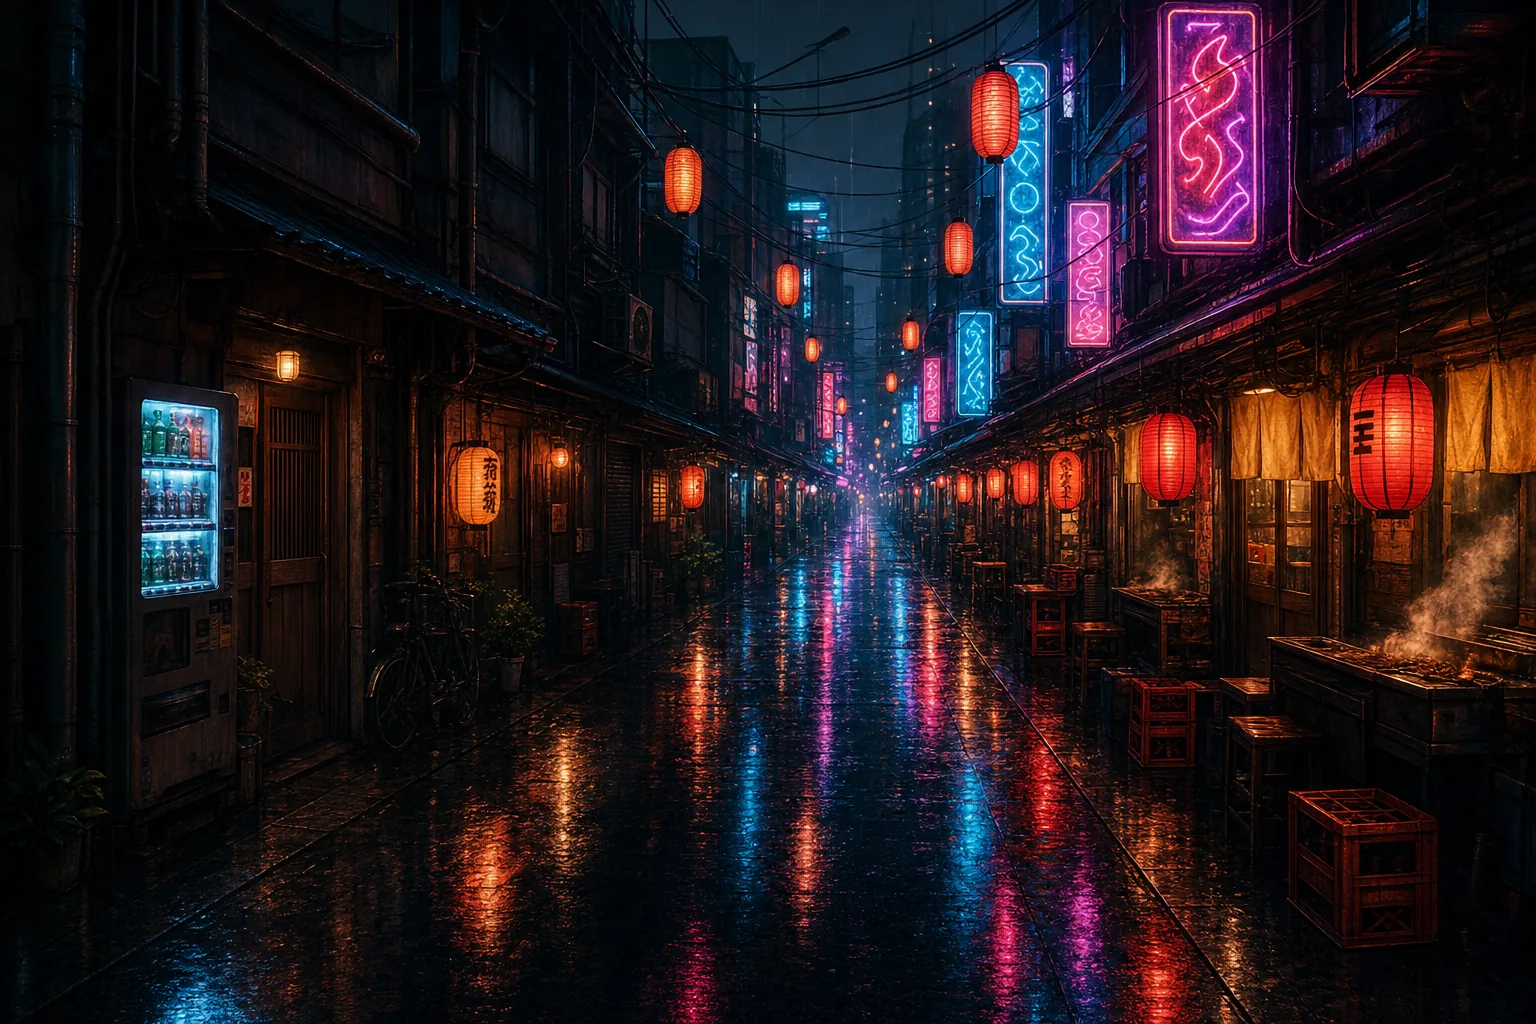
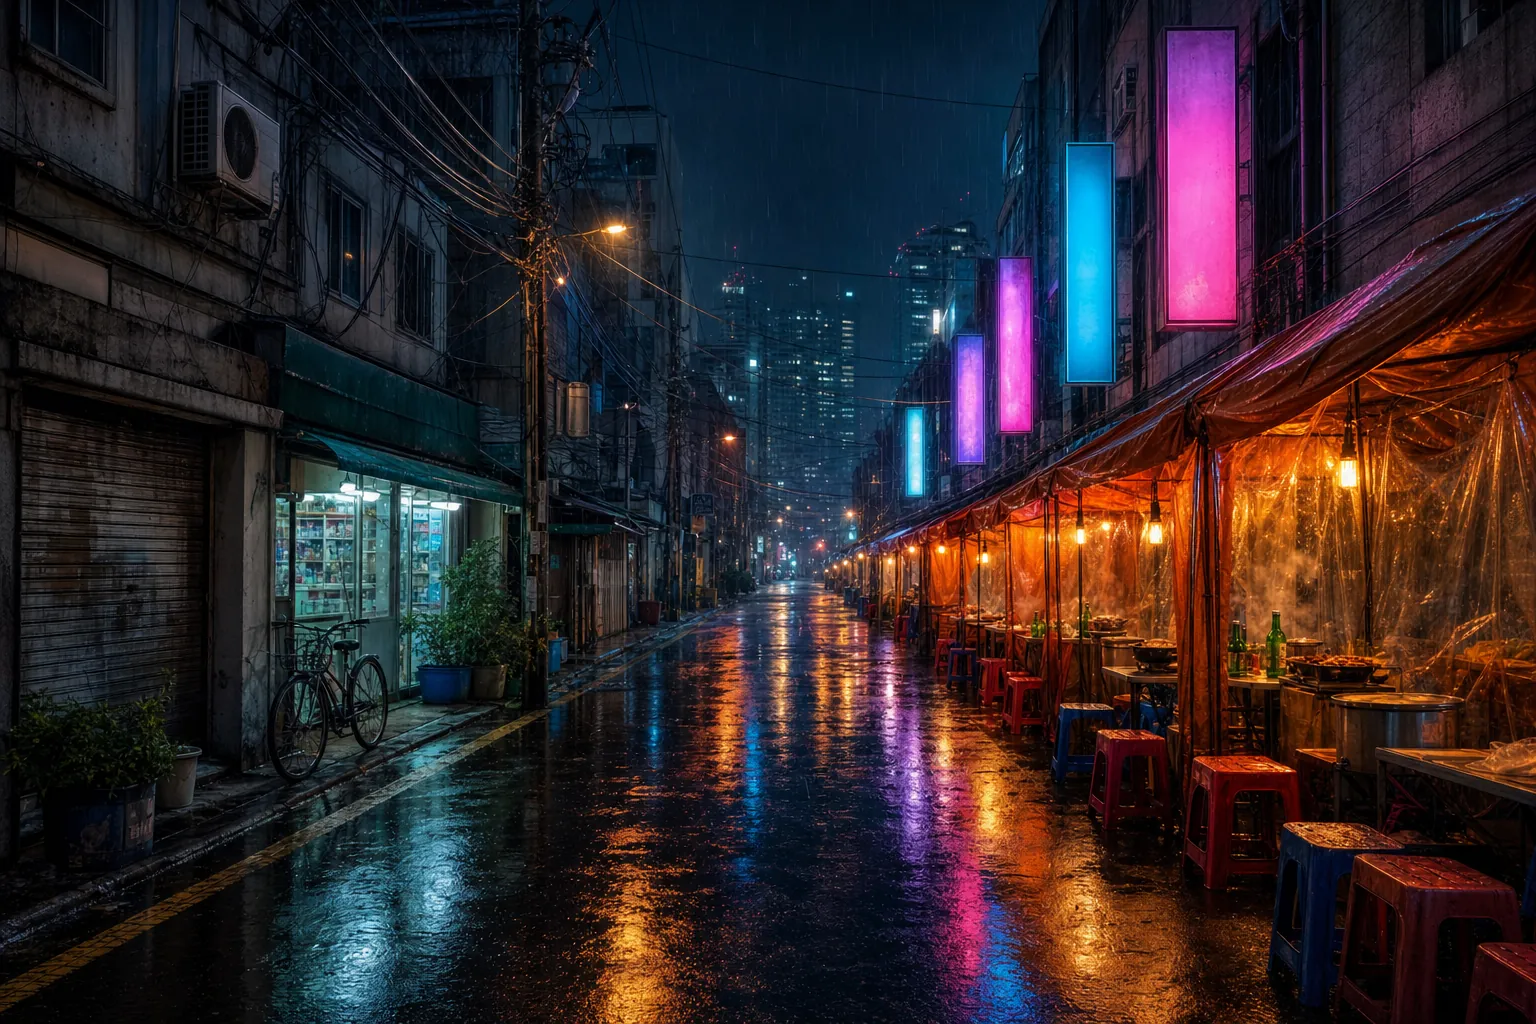
feat: Night Rain becomes a Seoul pojangmacha alley with Hangul neon signs

diff --git a/src/scenes/night-rain.ts b/src/scenes/night-rain.ts
@@ -1,4 +1,4 @@
-// Night Rain: a drinking alley in a neon city, in the rain. The alley is a
+// Night Rain: a Seoul alley of pojangmacha tents under neon, in the rain. The alley is a
 // painted plate drawn once per size; a passer-by under a clear umbrella walks
 // away down it from a four-frame strip, lit by the lanterns he passes. The
 // shader adds the rain, ripples, splashes, the shimmer of the wet street, his
@@ -12,39 +12,40 @@ const PERIOD = 60;
 
 // Each alley plate in its own pixels: size, the street's vanishing point and depth scale (fractions), where on screen the vanishing point goes, where its floor meets the walls at the bottom edge, a sign that buzzes, a vent that steams, how far right of the street's middle he walks (m), and plate px rects put out (a sign moved off them).
 const ALLEYS = {
-  wide: { w: 1536, h: 1024, vp: [0.563, 0.484], k: 0.2, aim: 0.67, floor: [-0.01, 0.815], sign: [0.755, 0.09, 0.822, 0.334], vent: [0.762, 0.57], side: 0.9, dark: [1146, 0, 1275, 262] },
-  tall: { w: 1024, h: 1536, vp: [0.71, 0.44], k: 0.2, aim: 0.6, floor: [0.3, 1.1], sign: [0.74, 0.19, 0.8, 0.33], vent: [0.5, 0.52], side: 1.05, dark: [] },
+  wide: { w: 1536, h: 1024, vp: [0.513, 0.561], k: 0.2, aim: 0.52, floor: [-0.06, 0.85], sign: [0.758, 0.027, 0.806, 0.317], vent: [0.869, 0.64], side: 0.6, dark: [] },
+  tall: { w: 1024, h: 1536, vp: [0.576, 0.586], k: 0.2, aim: 0.41, floor: [-1.0, 0.9], sign: [0.859, 0.251, 0.909, 0.417], vent: [0.825, 0.624], side: 0.2, dark: [] },
 };
 type Sign = [number, number, number, number, string, string, string, number];
-// The plates' signs carry made-up script, so each is repainted as a lit box with a real word: its rect in plate px, its glow, its core, the word top to bottom, and how hot it burns.
+// The plates' signs are blank panels, so each is repainted as a lit box with a real word: its rect in plate px, its glow, its core, the word top to bottom, and how hot it burns.
 const SIGNS = {
   wide: [
-    [1000, 60, 1049, 304, "#2fd3ff", "#d8f8ff", "居酒屋", 1],
-    [1066, 200, 1111, 346, "#ff4fb8", "#ffe0f2", "焼鳥", 1],
-    [1160, 92, 1261, 342, "#ff3da6", "#ffe3f3", "酒場", 0.2],
-    [956, 311, 995, 417, "#2fd3ff", "#d8f8ff", "営業中", 1],
-    [922, 356, 941, 422, "#ff6fc8", "#ffe6f5", "BAR", 1],
+    [1164, 28, 1237, 325, "#ff4fb8", "#ffe0f2", "포장마차", 1],
+    [1064, 142, 1114, 381, "#2fd3ff", "#d8f8ff", "노래방", 1],
+    [997, 259, 1032, 432, "#f25ae6", "#ffe3fb", "소주", 1],
+    [954, 334, 985, 464, "#b36eff", "#efe3ff", "호프", 1],
+    [905, 404, 925, 496, "#2fd3ff", "#d8f8ff", "영업중", 1],
   ],
   tall: [
-    [751, 287, 809, 500, "#ff4fb8", "#ffe0f2", "居酒屋", 1],
-    [913, 115, 948, 346, "#ff3da6", "#ffe3f3", "やきとり", 0.8],
-    [863, 368, 900, 505, "#2fd3ff", "#d8f8ff", "営業中", 1],
-    [971, 435, 1002, 594, "#ff5a6e", "#ffe4e8", "酒場", 1],
+    [886, 35, 931, 336, "#ff2fa8", "#ffe0f2", "포장마차", 1],
+    [784, 243, 822, 490, "#2fd3ff", "#d8f8ff", "노래방", 1],
+    [705, 371, 737, 599, "#ff70b8", "#ffe6f3", "소주", 1],
+    [778, 528, 815, 721, "#ff2fc0", "#ffe0f6", "치킨", 1],
+    [880, 385, 931, 640, "#ff3048", "#ffe4e8", "영업중", 1],
   ],
 } satisfies Record<"wide" | "tall", Sign[]>;
-const JP = (px: number) => `700 ${px}px "Yu Gothic", YuGothic, "Hiragino Sans", "Hiragino Kaku Gothic ProN", Meiryo, "Noto Sans CJK JP", "Noto Sans JP", sans-serif`;
-// Without a Japanese font the words would draw as empty boxes: the plate keeps its own signs then.
-function hasJapanese() {
+const KO = (px: number) => `700 ${px}px "Malgun Gothic", "Apple SD Gothic Neo", "Noto Sans KR", "Noto Sans CJK KR", sans-serif`;
+// Without a Korean font the words would draw as empty boxes: the plate keeps its own signs then.
+function hasKorean() {
   const c = document.createElement("canvas");
   c.width = c.height = 24;
   const s = c.getContext("2d", { willReadFrequently: true })!;
-  s.font = JP(20);
+  s.font = KO(20);
   const ink = (ch: string) => {
     s.clearRect(0, 0, 24, 24);
     s.fillText(ch, 2, 20);
     return s.getImageData(0, 0, 24, 24).data.join();
   };
-  return ink("酒") !== ink(String.fromCodePoint(0x10fffd));
+  return ink("한") !== ink(String.fromCodePoint(0x10fffd));
 }
 
 // One cell of the walk strip in its own pixels: size, his heel line, his centre, and his umbrella's rim ends, where drips fall from.
@@ -58,6 +59,8 @@ const decode = (url: string) =>
     .catch(() => null);
 const [wide, tall, walk] = "WebGLRenderingContext" in globalThis ? await Promise.all([wideUrl, tallUrl, walkUrl].map(decode)) : [null, null, null];
 
+// Whether a screen px is on one of the plate's sign panels.
+const lit = (k: "wide" | "tall") => SIGNS[k].map(([x0, y0, x1, y1]) => `inBox(s, px, vec4(${[x0 / ALLEYS[k].w, y0 / ALLEYS[k].h, x1 / ALLEYS[k].w, y1 / ALLEYS[k].h].map((v) => v.toFixed(4)).join(", ")}))`).join(" + ");
 const pick = (vec: string, f: (p: (typeof ALLEYS)["wide"]) => number[]) => `s.x < s.y ? ${vec}(${f(ALLEYS.tall).join(", ")}) : ${vec}(${f(ALLEYS.wide).join(", ")})`;
 
 // Shared with the shader: the plate's cover fit, anchored on its bottom right.
@@ -76,6 +79,8 @@ vec3 fit(vec2 s) {
   return vec3(c, aim * s.x - v * p.x * c, s.y - p.y * c);
 }
 vec2 onPlate(vec2 s, vec2 f) { vec3 k = fit(s); return k.yz + f * plateSize(s) * k.x; }
+float inBox(vec2 s, vec2 px, vec4 r) { vec2 a = onPlate(s, r.xy), b = onPlate(s, r.zw); return step(a.x, px.x) * step(px.x, b.x) * step(a.y, px.y) * step(px.y, b.y); }
+float plateLit(vec2 s, vec2 px) { return s.x < s.y ? ${lit("tall")} : ${lit("wide")}; }
 // Three walks away down the street a loop, from the right edge into the haze: his heels, his height to the umbrella's tip (2.05 m, so 0.78 of it is the 1.6 m eye line), and what the haze leaves of him.
 vec4 walker(vec2 s, vec2 vp, float t) {
   float p = fract(t * 3.0 / ${PERIOD}.0 + 0.17);
@@ -107,7 +112,7 @@ function paint(g: Ctx, w: number, h: number) {
       g.fillRect(ox + x0 * c, oy + y0 * c, (x1 - x0) * c, (y1 - y0) * c);
       g.restore();
     }
-    if (hasJapanese()) {
+    if (hasKorean()) {
       // Drawn on their own sheet and softened onto the plate, so they sit in its paint rather than on it.
       const sheet = document.createElement("canvas");
       sheet.width = g.canvas.width;
@@ -146,12 +151,12 @@ function paint(g: Ctx, w: number, h: number) {
         }
         const chars = [...word];
         const size = Math.min(bw * 0.7, (bh * 0.84) / chars.length);
-        s.font = JP(size);
+        s.font = KO(size);
         s.textAlign = "center";
         s.textBaseline = "middle";
         chars.forEach((ch, i) => {
           const cy = y + bh / 2 + (i - (chars.length - 1) / 2) * size * 1.06;
-          for (const [blur, color] of [[24, glow], [10, glow], [4, core]] as const) {
+          for (const [blur, color] of [[24, glow], [8, glow], [2, glow]] as const) {
             s.fillStyle = color;
             s.shadowBlur = blur * c;
             s.fillText(ch, x + bw / 2, cy);
@@ -161,7 +166,7 @@ function paint(g: Ctx, w: number, h: number) {
       }
       g.save();
       g.setTransform(1, 0, 0, 1, 0, 0);
-      g.filter = `blur(${0.6 * dpr}px)`;
+      g.filter = `blur(${0.4 * dpr}px)`;
       g.drawImage(sheet, 0, 0);
       g.restore();
     }
@@ -375,8 +380,8 @@ void main() {
   col = max(col - 0.012, 0.0) * 1.012;
   col = mix(col, smoothstep(0.0, 1.0, col), 0.3);
   col += (h12(gl_FragCoord.xy + fract(t * 7.0) * 311.0) - 0.5) * 0.024;
-  // Under the transcript: dimmed, and its brights held down so text keeps its contrast; he keeps a little of his light.
-  lane *= 1.0 - 0.4 * him;
+  // Under the transcript: dimmed, and its brights held down so text keeps its contrast; he and the signs keep a little of their light.
+  lane *= (1.0 - 0.4 * him) * (1.0 - 0.7 * plateLit(uSize, px));
   col *= mix(1.0, uSize.x > uSize.y ? 0.5 : 0.6, lane);
   col /= 1.0 + 2.4 * dot(col, vec3(0.3, 0.5, 0.2)) * lane;
   col *= 1.0 - 0.6 * (1.0 - smoothstep(20.0, 120.0, px.y));

diff --git a/src/scenes/night-rain.test.ts b/src/scenes/night-rain.test.ts
@@ -56,6 +56,12 @@ describe("night rain", () => {
     expect(frag().match(/\bstruct\b/g) ?? [], "WebGL 1 refuses ternaries and == on structs: pass vectors").toEqual([]);
   });
 
+  it("writes every sign in Hangul", () => {
+    const words = [...source.matchAll(/"#\w{6}", "#\w{6}", "([^"]+)"/g)].map((m) => m[1]);
+    expect(words.length).toBeGreaterThan(0);
+    expect(words.filter((w) => !/^[\uac00-\ud7a3]+$/.test(w)), "the sign font and its check are Korean: other script draws as empty boxes").toEqual([]);
+  });
+
   it("never copies the backdrop's live transform", () => {
     expect(source.match(/getTransform\(\)/g) ?? [], "paint resets it while compositing, so a copy taken later is 1:1 and halves everything on hi-dpi: use g.canvas.width / w").toEqual([]);
   });
